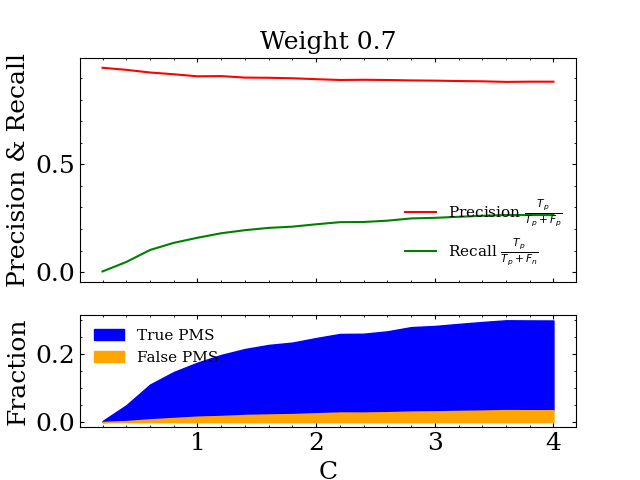
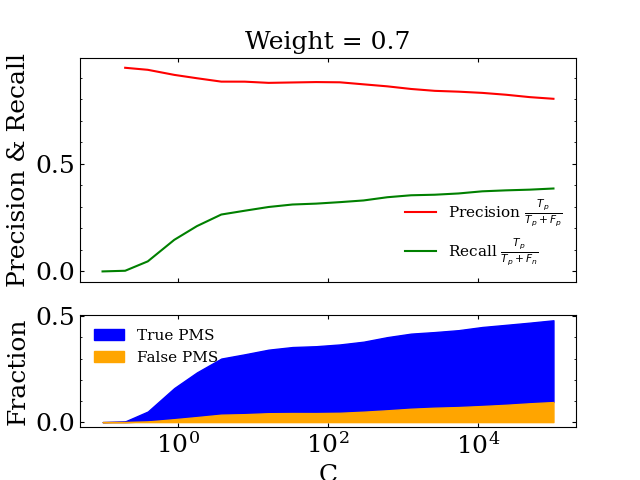
Visualization, select models

diff --git a/svm_summaryplots_C.py b/svm_summaryplots_C.py
@@ -30,12 +30,10 @@ false_test = X_test[np.where(y_test == 0)[0], :]
 
 #######
 
-save_figs = False
+save_figs = True
 extend = True
 
 yso_weights = [0.7, 1.0, 2.0]
-regularizeCs = np.arange(0.2, 4.1, 0.2)
-regularizeCs = np.append(regularizeCs, [10, 50, 100, 500, 1000, 10000, 100000]) if extend else regularizeCs
 regularizeCs = np.round(np.logspace(-1, 5, 20),1)
 
 
@@ -55,16 +53,16 @@ for i in range(len(yso_weights)):
     false_p = true_false[3]
 
 
-    fig, ax = plt.subplots(figsize = (8,6))
-    ax.plot(regularizeCs, true_p, label = r'$T_p$')
-    ax.plot(regularizeCs, false_p, label = r'$F_p$')
-    ax.plot(regularizeCs, false_n, label = r'$F_n$')
-    ax.set_xlabel('C')
-    ax.set_ylabel('N Stars Classified')
-    ax.set_title('Classification, w= {}'.format('weight'))
-    ax.legend()
-    plt.savefig(modeldir + '/Plots/TpFpRates_w{}.png'.format(str(weight))) if save_figs else None
-    plt.show()
+    # fig, ax = plt.subplots(figsize = (8,6))
+    # ax.plot(regularizeCs, true_p, label = r'$T_p$')
+    # ax.plot(regularizeCs, false_p, label = r'$F_p$')
+    # ax.plot(regularizeCs, false_n, label = r'$F_n$')
+    # ax.set_xlabel('C')
+    # ax.set_ylabel('N Stars Classified')
+    # ax.set_title('Weight = {}'.format('weight'))
+    # ax.legend()
+    # plt.savefig(modeldir + '/Plots/TpFpRates_w{}.png'.format(str(weight))) if save_figs else None
+    # plt.show()
 
 
 
@@ -73,11 +71,12 @@ for i in range(len(yso_weights)):
     recall = true_p / (true_p + false_n) # What proportion of relevant items are retrieved?
     falsepositive = false_p / (true_p + false_p) # What proportion of items are falsely retrieved?
 
+
     fig, axs = plt.subplots(2,1, sharex = True, gridspec_kw={'height_ratios':[2,1]})
     axs[0].plot(regularizeCs, precision, label = r'Precision $\frac{T_p}{T_p + F_p}$', color = 'r')
     axs[0].plot(regularizeCs, recall, label = r'Recall $\frac{T_p}{T_p + F_n}$', color = 'g')
     ymin, ymax = axs[0].get_ylim()
-    axs[0].set_title('Weight {}'.format(str(weight)))
+    axs[0].set_title('Weight = {}'.format(str(weight)))
 
     axs[0].set_ylabel('Precision & Recall')
     axs[0].legend(frameon = False, loc = 'lower right')
@@ -85,6 +84,9 @@ for i in range(len(yso_weights)):
     axs[1].fill_between(regularizeCs, false_p / len(true_test), color = 'orange', label = 'False PMS')
     ymin, ymax = axs[1].get_ylim()
     axs[1].set_xlabel('C')
+    # xmin, xmax = axs[1].get_xlim()
+    # axs[1].set_xlim(xmin - 0.2 * (xmax - xmin), xmax)
+    axs[1].set_xscale('log')
     axs[1].set_ylabel('Fraction')
     axs[1].legend(frameon = False, loc = 'upper left')
     plt.savefig(modeldir + '/Plots/PR_Classified_w{}.png'.format(str(weight))) if save_figs else None
@@ -94,20 +96,17 @@ for i in range(len(yso_weights)):
 
 
     fig, ax = plt.subplots(figsize = (8,6))
-    points = ax.scatter(false_p / (true_p + false_p) * 100 , recall * 100, c = np.log10(regularizeCs))
+    points = ax.scatter(falsepositive * 100 , recall * 100, c = np.log10(regularizeCs))
     ax.set_xlabel('% Contamination')
     ax.set_ylabel('% YSOs Recovered')
     xmin, xmax = ax.get_xlim()
-    ax.set_xlim(xmin, np.nanpercentile(false_p / (true_p + false_p) * 100, 95) + 6)
-    # print(np.sort(false_p / (true_p + false_p) * 100))
+    ax.set_xlim(xmin, np.nanpercentile(falsepositive * 100, 95) + 5)
     fig.colorbar(points, label = 'log(C)')
-    ax.set_title('Proportions Recovered, w = {}'.format(str(weight)))
+    ax.set_title('Weight = {}'.format(str(weight)))
 
-
-    critera = (100 * recall) / ( 100 * false_p / (true_p + false_p)  + 1)
+    critera = (100 * recall) / ( 100 * falsepositive  + 1)
     best = np.nanargmax(critera)
     points = ax.scatter(false_p[best] / (true_p[best] + false_p[best]) * 100 , recall[best] * 100, marker = '*', s = 100)
-
 
     plt.savefig(modeldir + '/Plots/proportion_curve_w{}.png'.format(str(weight))) if save_figs else None
     plt.show()

diff --git a/svm_summaryplots.py b/svm_summaryplots.py
@@ -55,8 +55,14 @@ plt.savefig(modeldir + '/Plots/TpFpRates.png') if save_figs else None
 plt.show()
 
 selectmod = 0.8
-precision = true_p / (true_p + false_p)
-recall = true_p / (true_p + false_n)
+
+
+
+
+precision = true_p / (true_p + false_p) # What proportion of retrieved items are relevant?
+recall = true_p / (true_p + false_n) # What proportion of relevant items are retrieved?
+falsepositive = false_p / (true_p + false_p) # What proportion of items are falsely retrieved?
+
 fig, axs = plt.subplots(2,1, sharex = True, gridspec_kw={'height_ratios':[2,1]})
 axs[0].plot(yso_weights, precision, label = r'Precision $\frac{T_p}{T_p + F_p}$', color = 'r')
 axs[0].plot(yso_weights, recall, label = r'Recall $\frac{T_p}{T_p + F_n}$', color = 'g')
@@ -76,13 +82,21 @@ plt.savefig(modeldir + '/Plots/PR_Classified.png') if save_figs else None
 plt.show()
 
 
+
+
 fig, ax = plt.subplots(figsize = (8,6))
-points = ax.scatter(false_p / (true_p + false_p) * 100 , true_p / len(true_test) * 100, c = yso_weights)
+points = ax.scatter(falsepositive * 100 , recall * 100, c = yso_weights)
 ax.set_xlabel('% Contamination')
 ax.set_ylabel('% YSOs Recovered')
 xmin, xmax = ax.get_xlim()
-ax.set_xlim(xmin, np.nanpercentile(false_p / (true_p + false_p) * 100, 95) + 6)
+ax.set_xlim(xmin, np.nanpercentile(falsepositive * 100, 95) + 6)
 # print(np.sort(false_p / (true_p + false_p) * 100))
 fig.colorbar(points, label = 'Model PMS Weight')
+
+# critera = (100 * recall) / ( 100 * falsepositive  + 1)
+# best = np.nanargmax(critera)
+# points = ax.scatter(false_p[best] / (true_p[best] + false_p[best]) * 100 , recall[best] * 100, marker = '*', s = 100)
+
 plt.savefig(modeldir + '/Plots/proportion_curve.png') if save_figs else None
 plt.show()
+

diff --git a/svm_main_w.py b/svm_main_w.py
@@ -1,8 +1,9 @@
 #################################################################################################
-########################################## svm_main.py ##########################################
-# This is the primary file for this project. 
+########################################## svm_main_w.py ##########################################
+# This is the first main file for this project. 
 # Purpose: generate SVM models to the input dataset, testing the best model hyperparameters for
 # class weights.
+# Summary plots carried out in svm_summaryplots_C.py
 
 
 ### Imports ###

diff --git a/svm_main_C.py b/svm_main_C.py
@@ -1,8 +1,9 @@
 #################################################################################################
 ########################################## svm_main_C.py ##########################################
-# This is a secondary file for this project. 
+# This is the second main file for this project. 
 # Purpose: generate SVM models to the input dataset, testing the best model hyperparameters for
 # C, the regularization parameter.
+# Summary plots carried out in svm_summaryplots_C.py
 
 
 ### Imports ###
